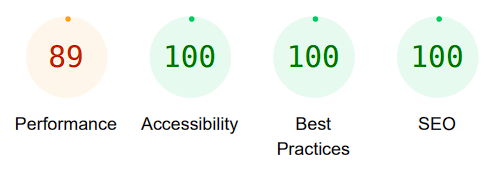
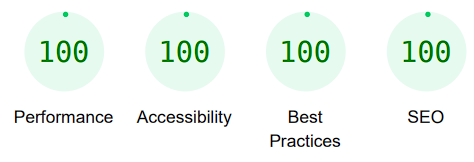
chore: update to TESTING.md and docs

diff --git a/TESTING.md b/TESTING.md
@@ -100,6 +100,8 @@ During the development process, I identified the following bugs through manual t
 #### ***Desktop Version:***
 ***
 
+* The Lighthouse Score for desktops regarding "Accessibility", "Best Practices" and "SEO" is for all Pages 100 or near 100.
+
 #### ***index.html***
 
 ![index.html Desktop Lighthouse Score](docs/screenshots/lh_desktop_indexhtml_score.png)
@@ -122,6 +124,9 @@ During the development process, I identified the following bugs through manual t
 
 #### ***Mobile Version:***
 ***
+
+* The Lighthouse score for mobile regarding "Accessibility", "Best Practices" and "SEO" is for all Pages 100 or near 100.
+* There are some differences in the performance score between the sites. I will discuss these below.
 
 #### ***index.html***
 
